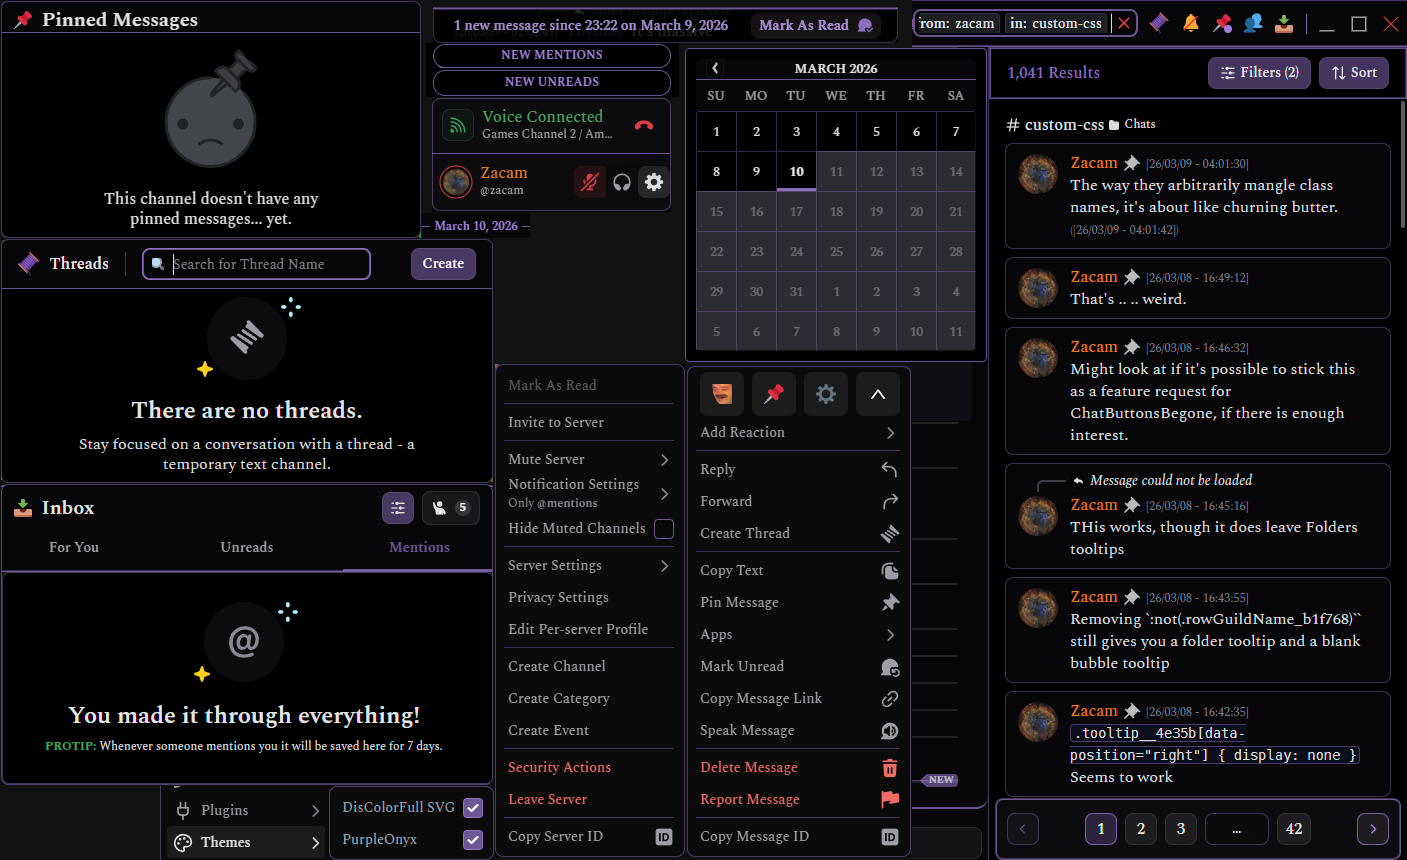
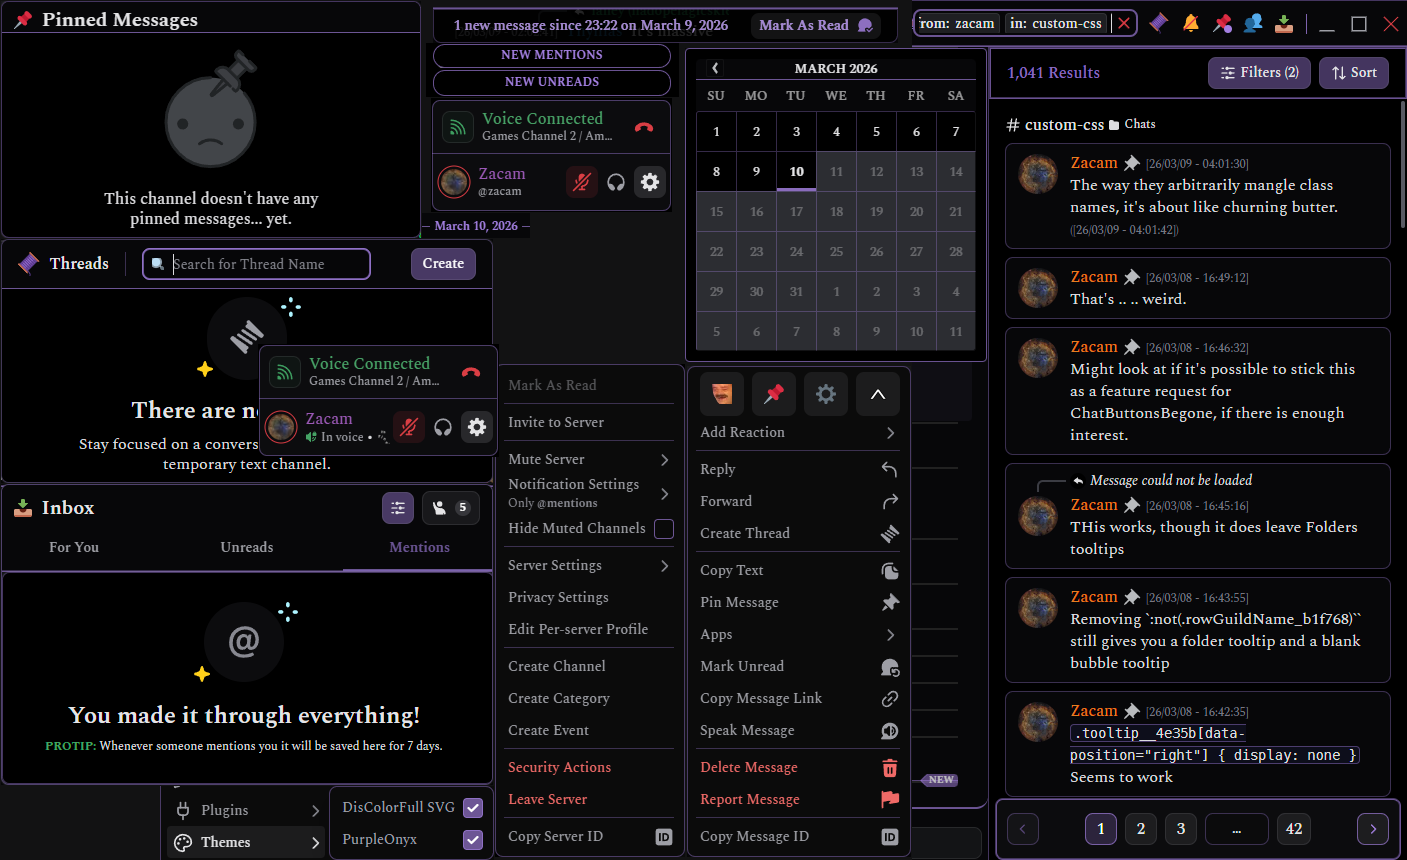
PurpleOnyx: Minor Adjust
Update Screenshot to reflect correct padding of Avatar Wrapper area.

Changed region(s): [[0.1834, 0.393, 0.3667, 0.5442], [0.3056, 0.1209, 0.489, 0.2419]]

diff --git a/PurpleOnyx/css/PurpleOnyx.css b/PurpleOnyx/css/PurpleOnyx.css
@@ -1097,10 +1097,10 @@ foreignObject[mask="url(#svg-mask-status-offline)"]>div[class^="status"][style="
 
  /* Remove gap to the left of Gear/Settings Button */
 .panels__5e434 > .container__37e49 {
-	padding: 0px 0px 1px 8px;
+	padding: 0px 4px 0px 6px;
 	gap: unset;
 	.buttons__37e49 {
-		gap: 4px;
+		gap: 2px;
 	}
 }
 
